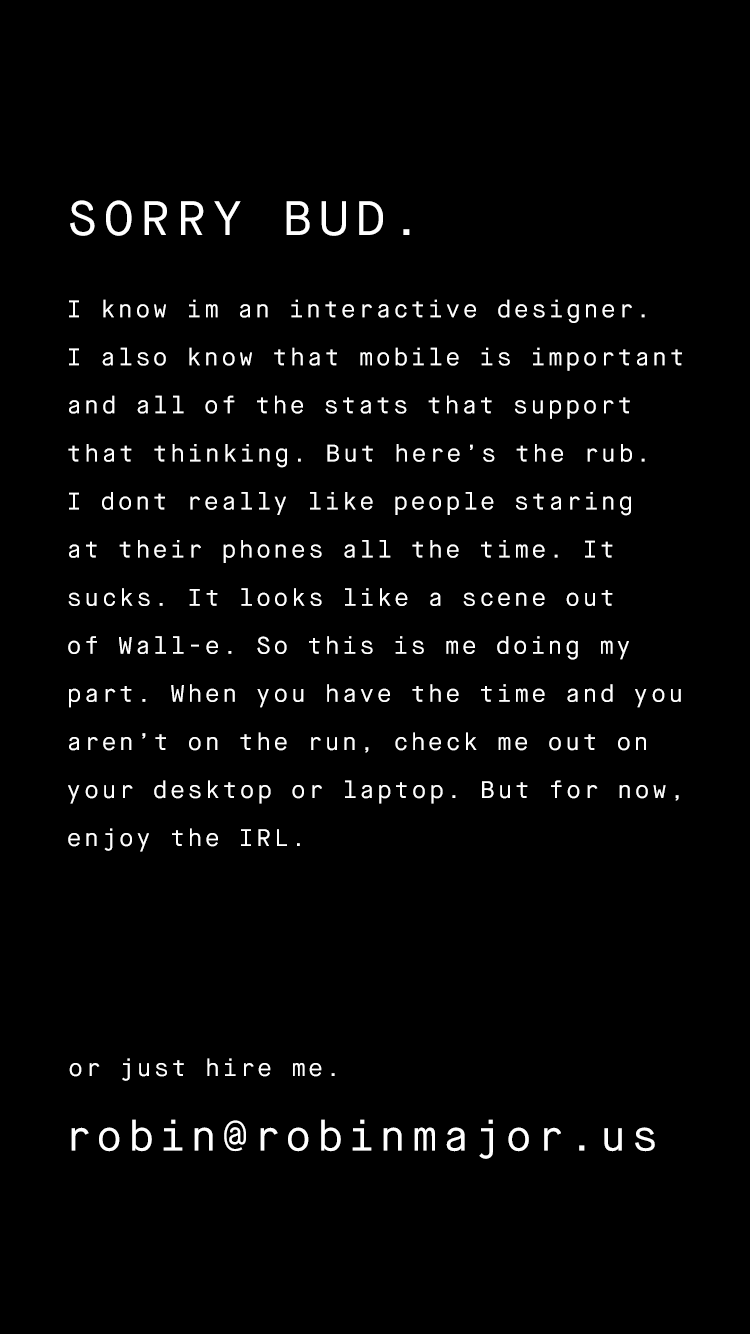
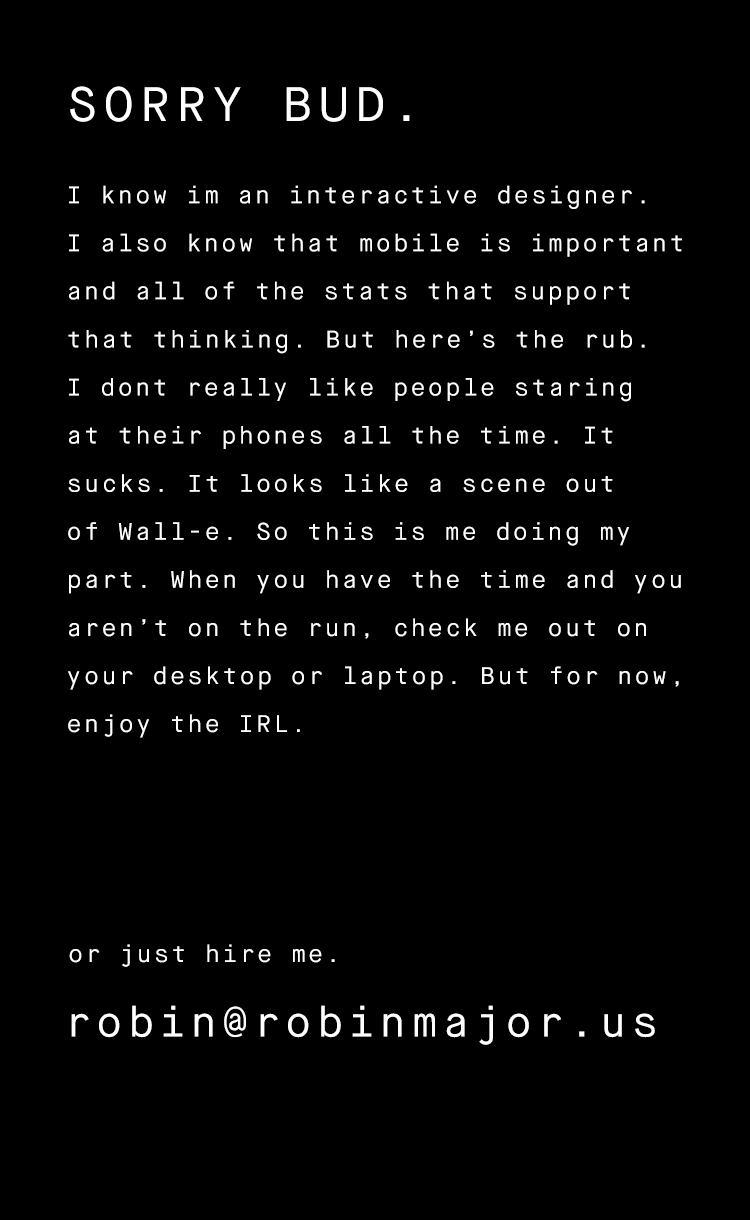
pull down robs edits

diff --git a/index.html b/index.html
@@ -19,7 +19,9 @@
                     <li>Supra Footwear</li>
                     <li>The Guggenheim</li>
                     <li>Bank Simple</li>
+                    <li>Redbull</li>
                     <li>Spotify</li>
+                    <li>The Grammys</li>
                     <li>Venue Skateboards</li>
                     <li>Palladium Boots</li>
                     <li>10.Deep</li>
@@ -31,7 +33,7 @@
                     <li>MNMNT Snowboards</li>
                     <li>The Macallan</li>
                     <li>Black Tux</li>
-                    <li>LeEco</li>
+                    
                     <li>The Boardwalk</li>
                 </ul>
             </li>
@@ -41,6 +43,10 @@
                     <a class="underline"href="mailto:Hello@robinmajor.us">
                   Email</a>
                   </li>
+                  <li>
+                    <a class="underline"href="https://dl.dropboxusercontent.com/u/86530982/cv.pdf"target="_blank">
+                  Curriculum Vitae</a>
+                  </li>
                   <li>Full Portfolio on request</li>
               </ul>
               <div class="wrapper">
@@ -49,15 +55,16 @@
             </li>
             <li class="menu-item has-submenu">
               <ul class="sub-menu">
-                  <li>Surfer</li>
-                  <li>Skateboarder</li>
+                 
                   <li>Designer</li>
                   <li>Art Director</li>
+                  <li>Surfer</li>
+                  <li>Skateboarder</li>
                   <li>VCU basketball fan</li>
-                  <li>Hip Hop enthusiest</li>
+                  <li>Hip Hop enthusiast</li>
                   <li>Snowboarder</li>
                   <li>Soccer player</li>
-                  <li>(in that order)</li>
+                
               </ul>
                 <a href="" class="rotate">About</a>
             </li>
@@ -95,7 +102,7 @@
         </div>
     </div>
     <div class="small-screen hide-for-large">
-        <a href="mailto:robin@robinmajor.us"><img src="css/fuck_mobile.png" /></a>
+        <a href="mailto:robin@robinmajor.us"><img style="width: 100%;" src="css/fuck_mobile.png" /></a>
         <!--<h2>SORRY BUD.</h2>-->
         <!--<p>-->
         <!--  I know I'm an interactive designer also that mobile is important and all of the stats support that thinking. But here's the rub. I don't really like people staring at their phones all the time. It sucks. It looks like a scene out of Wall-E. So this is me doing my part. When you have the time and you aren't on the run, check me out on your desktop or laptop. but for now, enjoy the IRL.-->

diff --git a/css/style.css b/css/style.css
@@ -62,12 +62,14 @@ a:hover {
   -webkit-text-fill-color: transparent; /* Will override color (regardless of order) */
   -webkit-text-stroke-width: 1px;
   -webkit-text-stroke-color: black;
-  font-size: 4.5rem;
+  font-size: 5.5rem;
+  line-height: 1;
 }
 
 h2.subhead {
   text-transform: uppercase;
   font-size: 12px;
+  
 }
 
 body {
@@ -172,7 +174,7 @@ nav ul.corners a:not(.underline) {
 /*PROJECT LIST*/
 
 ul.projects li.project {
-  margin-top: 55px;
+  margin-top: 80px;
 }
 ul.projects li.project .project-wrapper {
   position: relative;
@@ -181,7 +183,8 @@ ul.projects li.project .project-wrapper {
 ul.projects li.project .project-wrapper .subhead {
   position: absolute;
   width: 100%;
-  top: -2rem;
+  top: -2.3rem;
+  height: 70px;
 }
 ul.projects li.project .project-wrapper .thumb {
   position: absolute;
@@ -216,7 +219,7 @@ ul.projects li.project .project-wrapper:hover .thumb {
 }
 
 .single-project {
-  padding: 5rem 0;
+  padding: 4rem 0;
 }
 .single-project .column {
   min-height: 1px;
@@ -275,7 +278,7 @@ ul.projects li.project .project-wrapper:hover .thumb {
   padding-left: 15px;
 }
 .single-project .padded {
-  padding: 0 60px;
+  padding: 0 40px;
 }
 
 /*custom toggle play button for vimeo*/

diff --git a/js/index.js b/js/index.js
@@ -249,6 +249,11 @@ var app = {
             self.vimeoHandler(this)
         })
 
+        // Defer sticky until content is loaded
+        // $(document).one('load', function () {
+        //     // console.log('done')
+        //     debugger
+        // })
         self.animProjectOpen()
     },
     stickyContent: function() {
@@ -406,17 +411,13 @@ var app = {
             autoplay: autoplay,
             loop: loop
         }
-
         var player = new Vimeo.Player(el, options)
         var $playpause = $(el).find('.playpause')
 
-        if ( autoplay ) $playpause.addClass('pause')
-
-        if ( !loop ) {
-          player.ready().then(function() {
-              player.on('ended', onFinish)
-          })
-        }
+        // debugger
+        player.ready().then(function() {
+            player.on('ended', onFinish)
+        })
 
         $playpause.click(function() {
             player.getPaused().then(function(paused) {
@@ -431,7 +432,7 @@ var app = {
         })
 
         function onFinish(id) {
-            $playpause.removeClass('pause')
+            $$playpause.removeClass('pause')
         }
     },
     // Utilities
